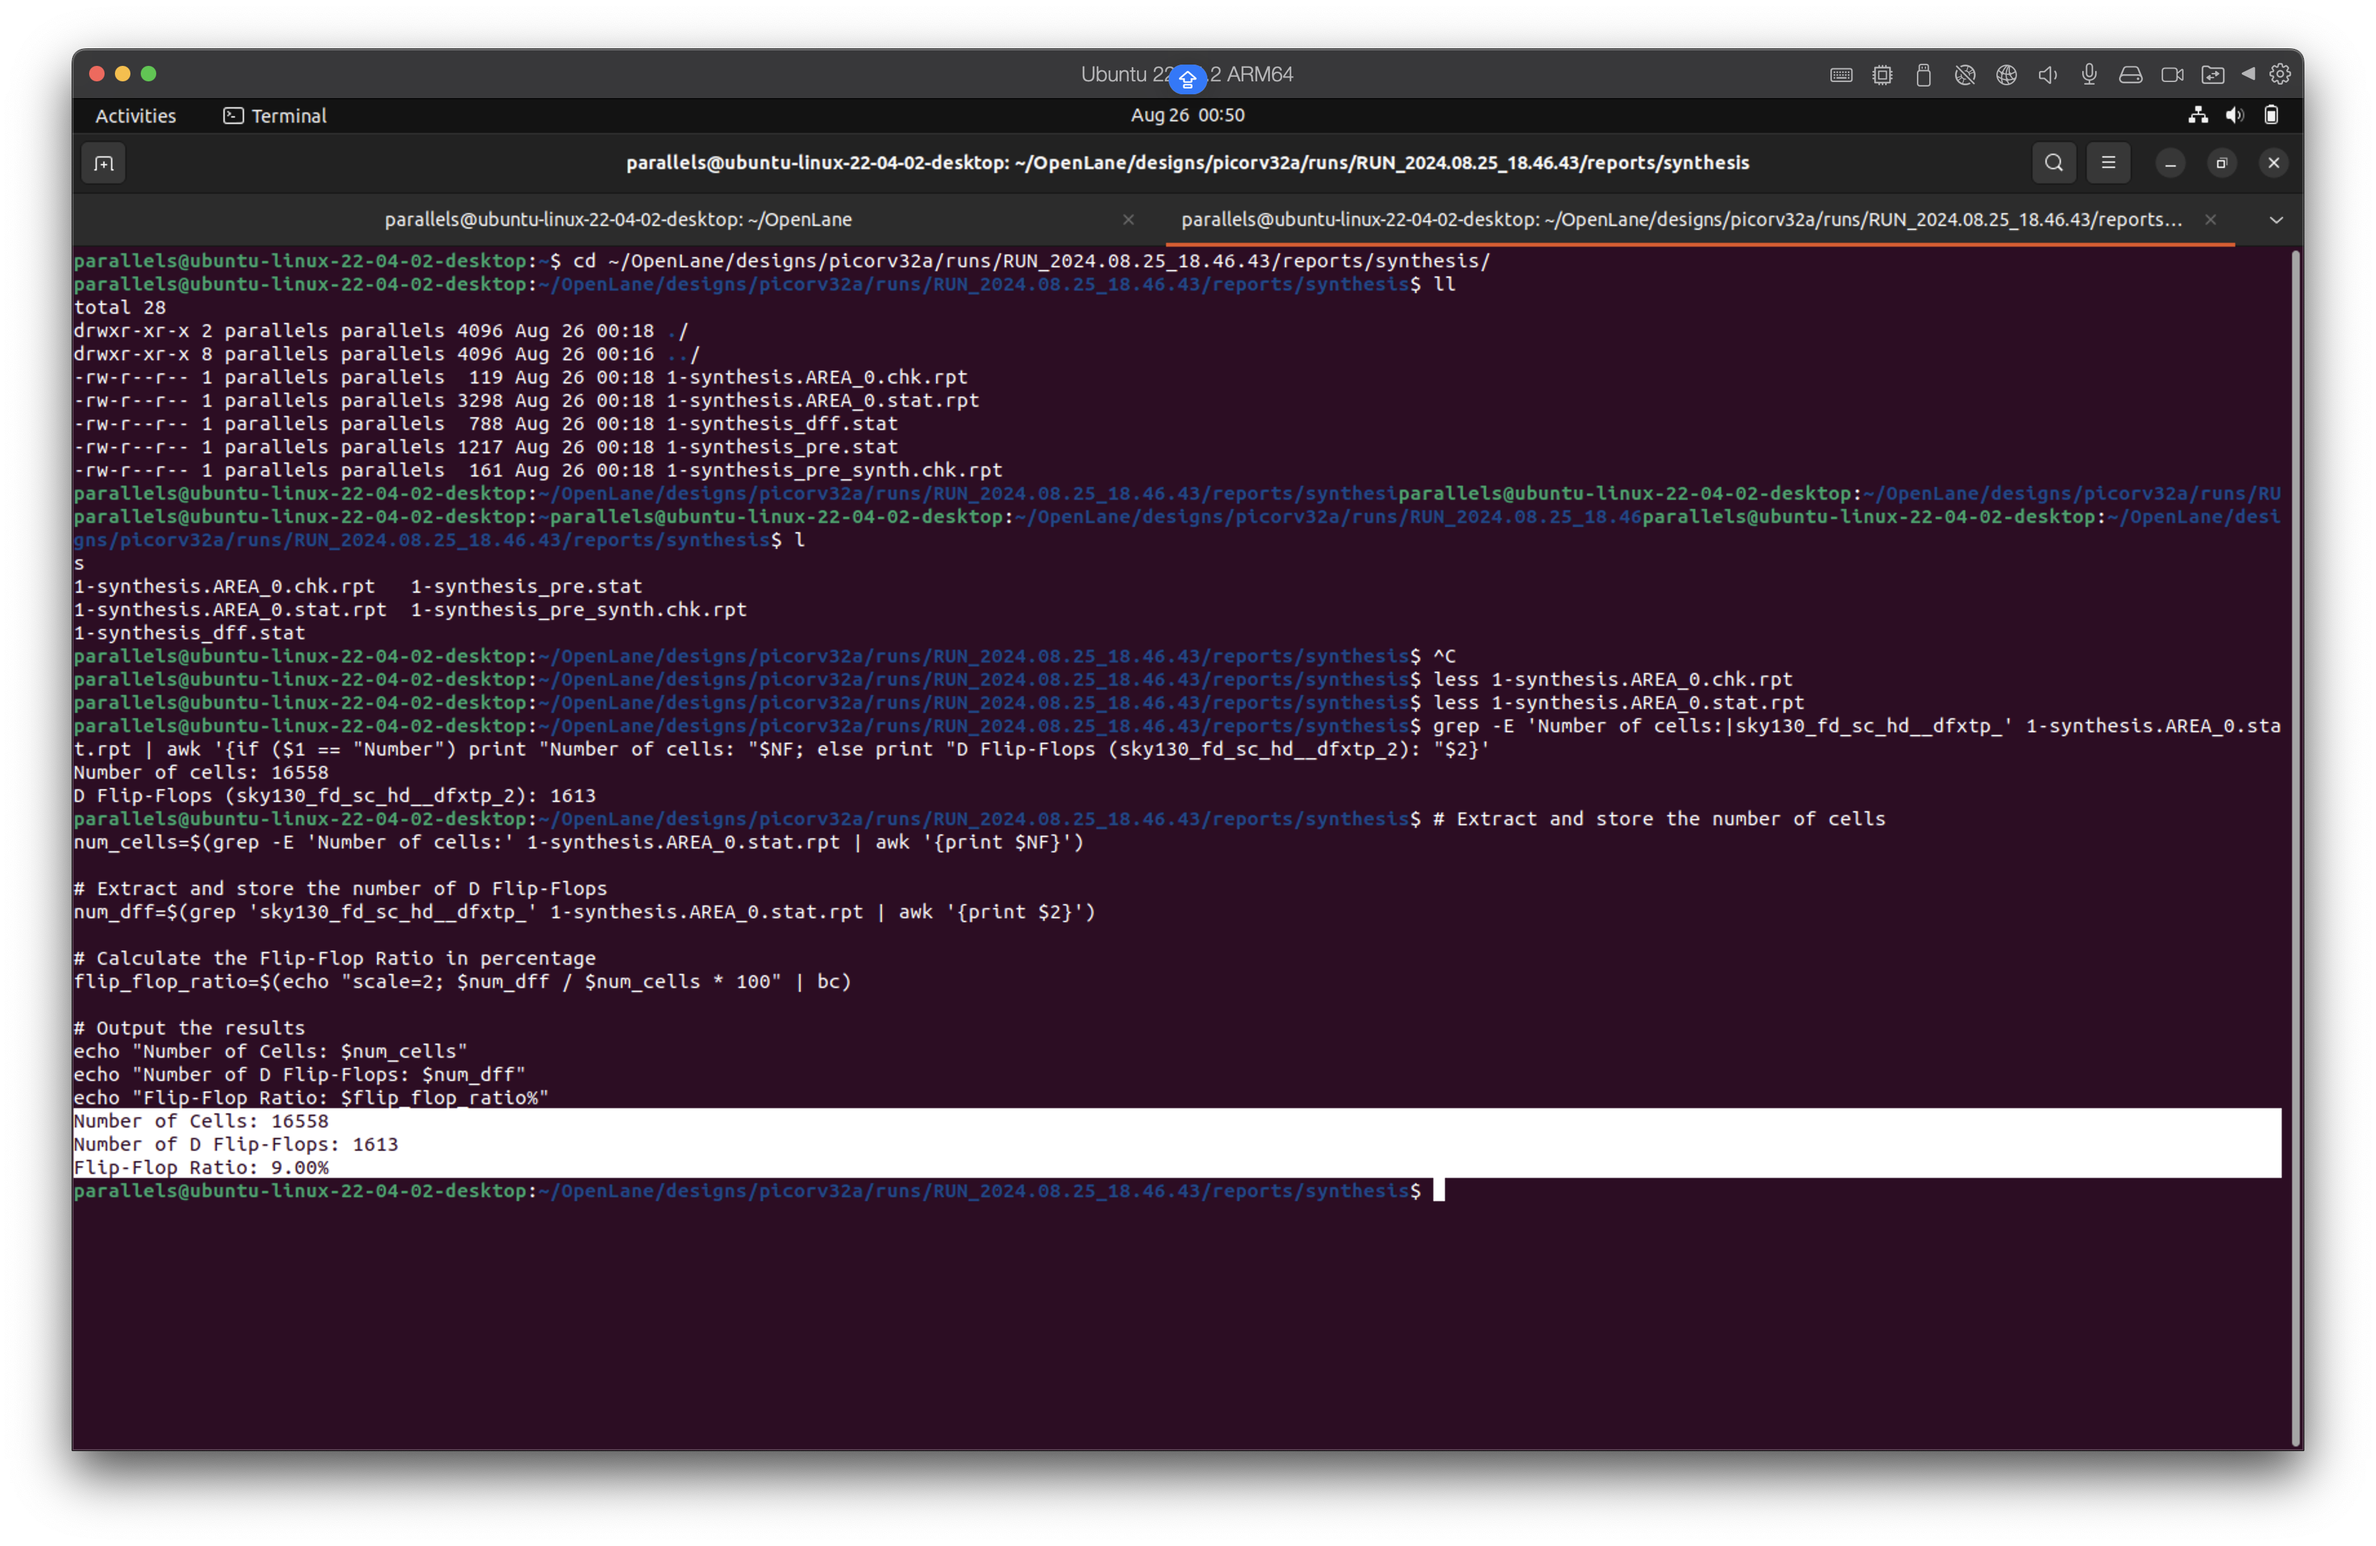
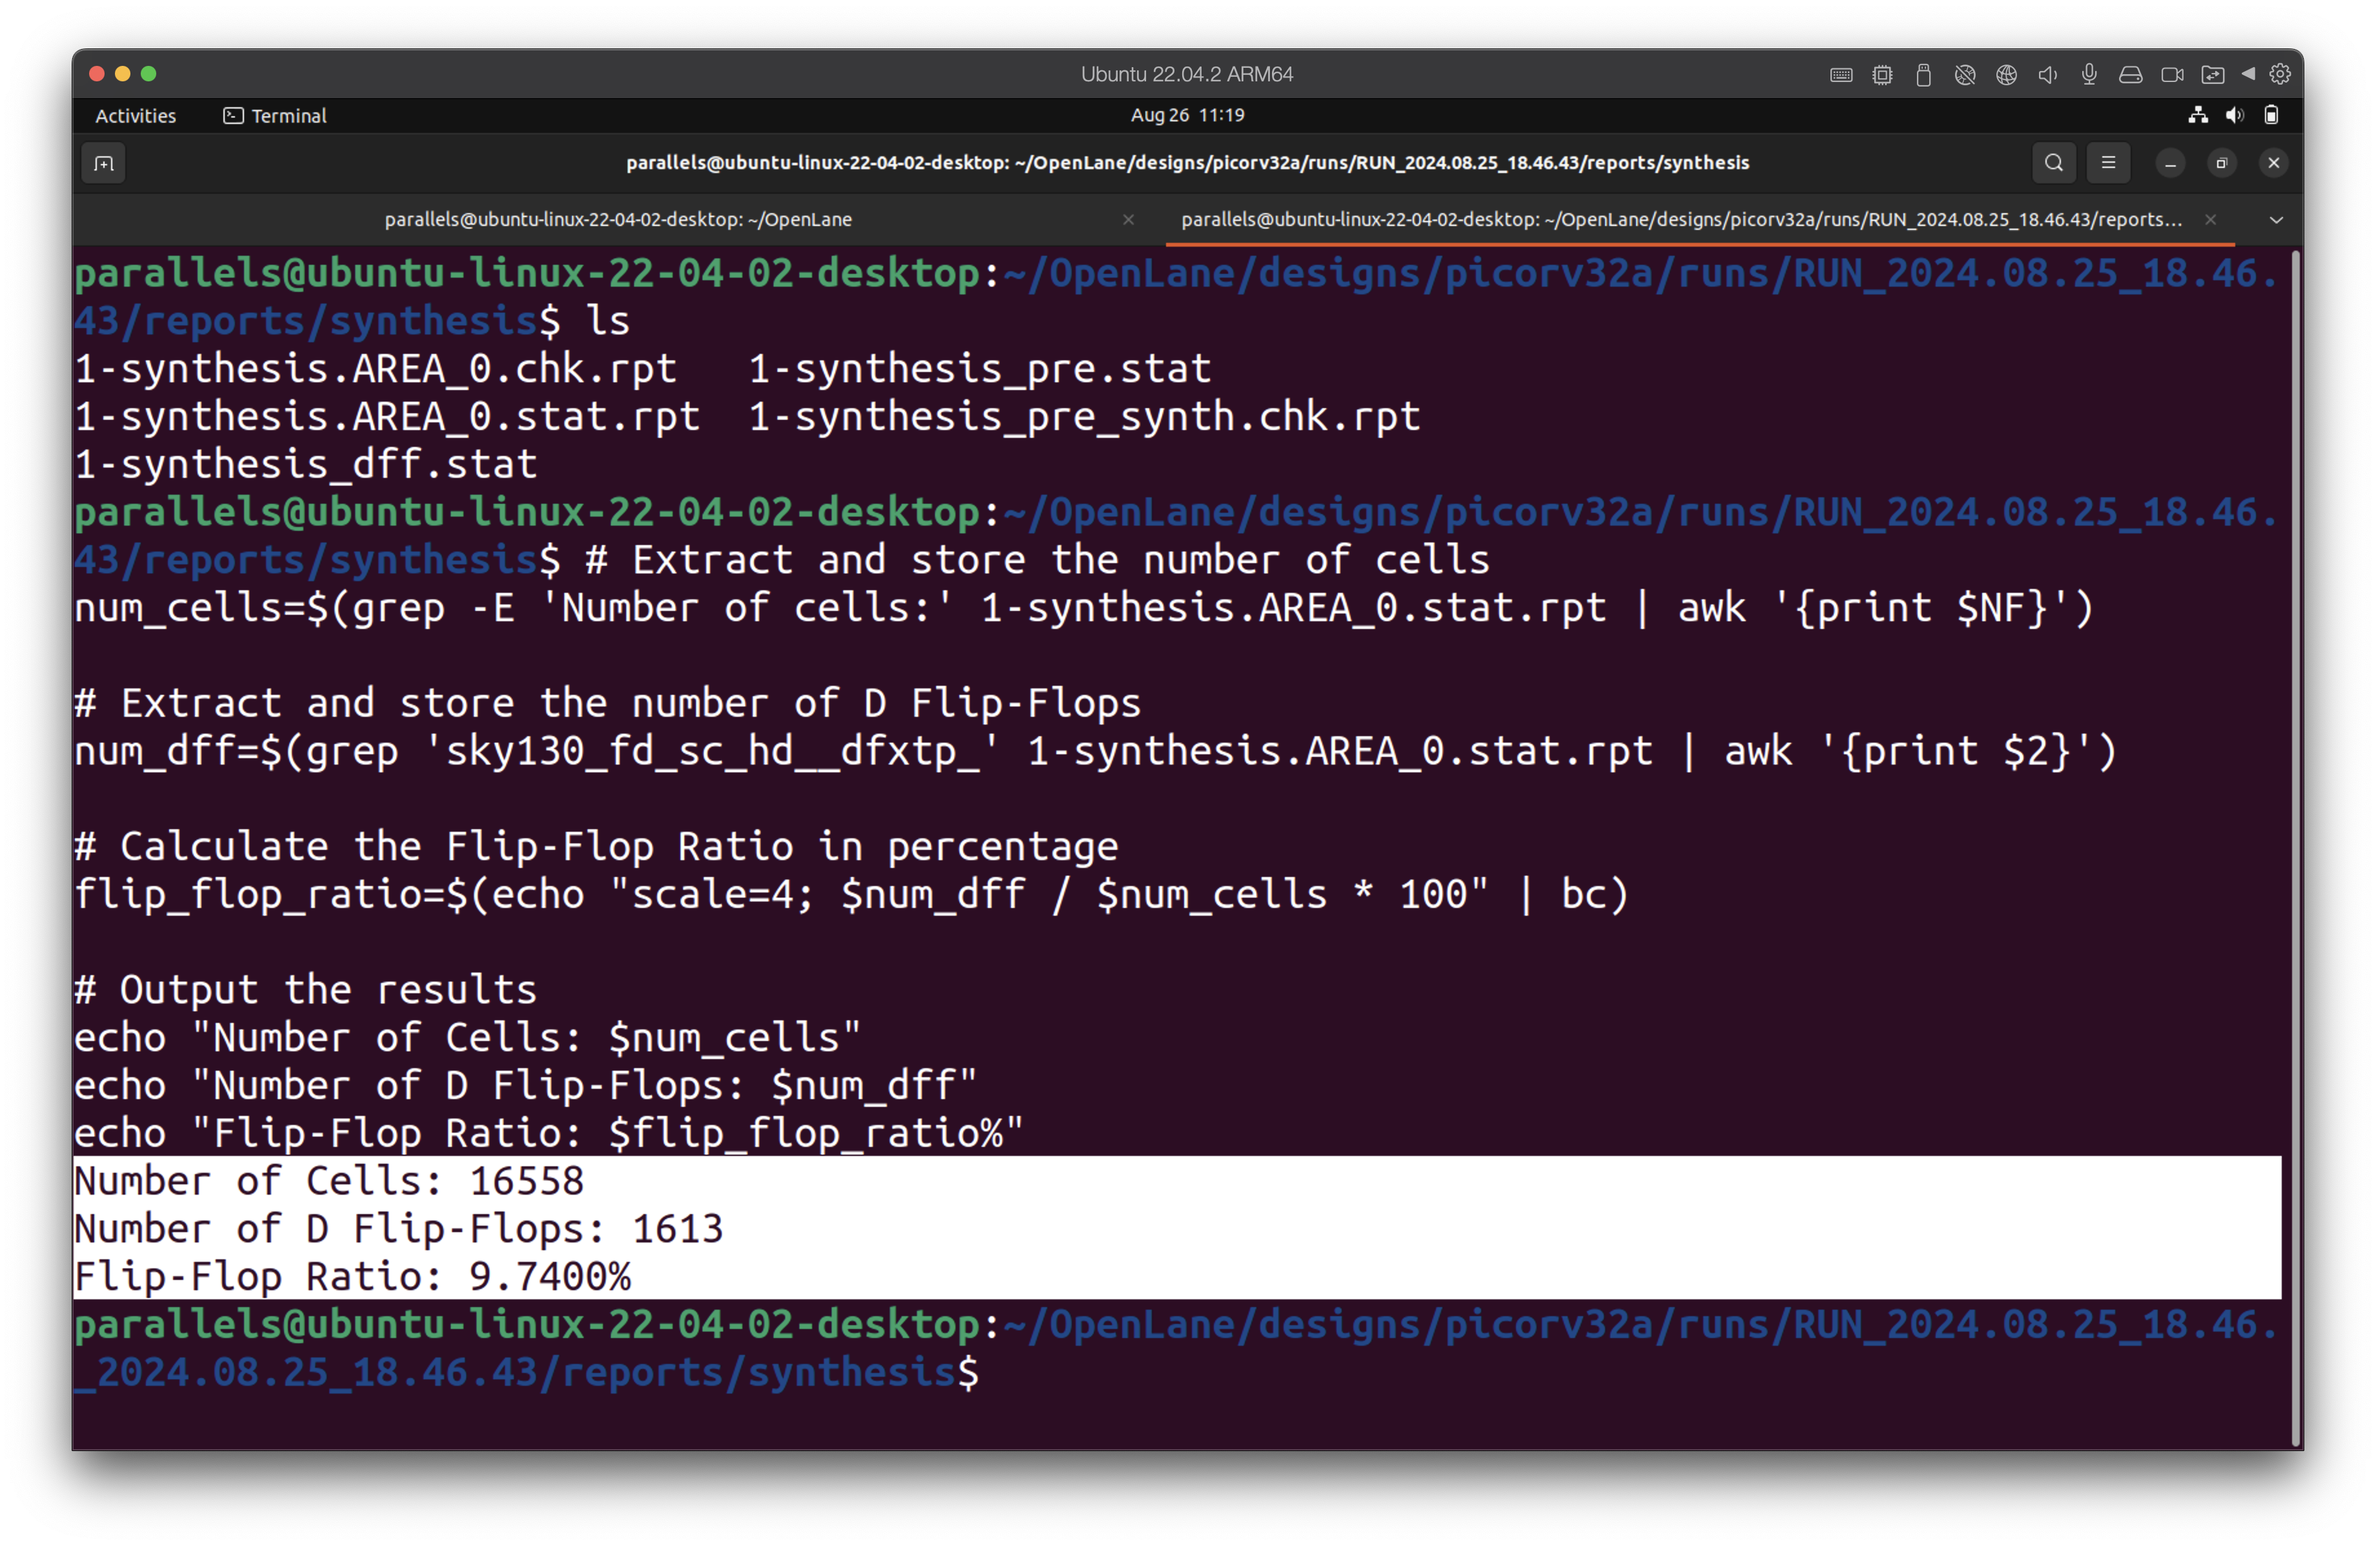
[Day1] Lab | Changed Scale of Flip Flop Ratio Calculation

Changed region(s): [[0.0312, 0.1546, 0.9688, 0.8964], [0.4688, 0.0309, 0.5312, 0.0927]]

diff --git a/README.md b/README.md
@@ -868,7 +868,7 @@ num_cells=$(grep -E 'Number of cells:' 1-synthesis.AREA_0.stat.rpt | awk '{print
 num_dff=$(grep 'sky130_fd_sc_hd__dfxtp_' 1-synthesis.AREA_0.stat.rpt | awk '{print $2}')
 
 # Calculate the Flip-Flop Ratio in percentage
-flip_flop_ratio=$(echo "scale=2; $num_dff / $num_cells * 100" | bc)
+flip_flop_ratio=$(echo "scale=4; $num_dff / $num_cells * 100" | bc)
 
 # Output the results
 echo "Number of Cells: $num_cells"
@@ -953,7 +953,7 @@ These lines provide a detailed output of the synthesis report, showing the numbe
 ```
 Number of Cells: 16558
 Number of D Flip-Flops: 1613
-Flip-Flop Ratio: 9.00%
+Flip-Flop Ratio: 9.7400%
 ```
 <img src="images/FlipFlop_Ratio.png" alt="FlipFlop_Ratio" width="20%"/>
 
